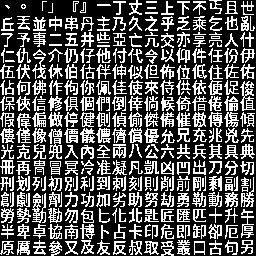
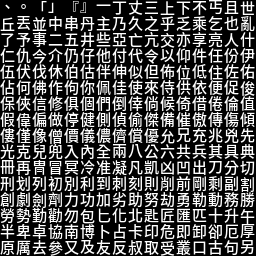
灰階 AA 字型:cjkBlit alpha 混色 + gray atlas(向後相容二值)
- build_cjk_font.py 加 --mode gray(預設,存抗鋸齒 alpha)/ binary
- patches/engine cjkBlit:用原始 alpha 值混黑底(二值 atlas 仍相容)
- assets/cjk_font.bin 重建為 Noto Medium 灰階;headless 自測通過
- docs/screenshots:02 更新為 AA、04_aa_compare 二值/AA 並列
- 註:xu4 預設 nearest-neighbor 放大部分削弱 AA,搭 --filter 更明顯
- PLAN/README/SETUP/patches README 更新

diff --git a/tools/build_cjk_font.py b/tools/build_cjk_font.py
@@ -48,7 +48,7 @@ def collect_codepoints():
     return sorted(cps, key=ord)
 
 
-def render_glyph(font, ch, W, H):
+def render_glyph(font, ch, W, H, mode="gray", threshold=96):
     img = Image.new("L", (W, H), 0)
     d = ImageDraw.Draw(img)
     # 量測並置中
@@ -57,8 +57,9 @@ def render_glyph(font, ch, W, H):
     x = (W - gw) // 2 - bbox[0]
     y = (H - gh) // 2 - bbox[1]
     d.text((x, y), ch, fill=255, font=font)
-    # 二值化(EGA/點陣風格,門檻 96)
-    return img.point(lambda p: 255 if p >= 96 else 0)
+    if mode == "binary":
+        return img.point(lambda p: 255 if p >= threshold else 0)
+    return img   # gray:保留抗鋸齒 alpha(引擎 cjkBlit 以該值混色)
 
 
 def main():
@@ -67,6 +68,8 @@ def main():
     ap.add_argument("--index", type=int, default=0,
                     help=".ttc face index(Noto Sans CJK TC = 3)")
     ap.add_argument("--size", type=int, default=16)
+    ap.add_argument("--mode", choices=["gray", "binary"], default="gray",
+                    help="gray=抗鋸齒 alpha(預設);binary=二值化")
     ap.add_argument("--out", required=True)
     ap.add_argument("--preview", default="")
     args = ap.parse_args()
@@ -79,7 +82,7 @@ def main():
     os.makedirs(os.path.dirname(args.out), exist_ok=True)
     glyphs = []
     for ch in chars:
-        g = render_glyph(font, ch, W, H)
+        g = render_glyph(font, ch, W, H, args.mode)
         glyphs.append((ord(ch), g.tobytes()))
 
     with open(args.out, "wb") as f:

diff --git a/PLAN.md b/PLAN.md
@@ -285,10 +285,12 @@ U6-cht 的核心經驗可直接套用:
 CJK 字型 + H1 hook PoC,headless Docker 驗證通過:
 
 - **資料側**:`tools/build_cjk_font.py`(掃四源 zh → 1978 唯一漢字 → **Noto Sans CJK TC Medium**(`--index 3`)烘 16×16 atlas `assets/cjk_font.bin`)+ `tools/build_lookup.py`(四源合併 en→zh 二進位 `assets/u4_cht.tab`,2614 條,依 en 排序)。
-  - **字型可讀性**(2026-06-04):16px 二值化下,Noto Sans CJK TC **Medium** 優於 AR PL UMing(Ming serif 細筆易斷)與 Noto Bold(密筆糊成一團);對比見 `docs/screenshots/03_font_compare.png`。
+  - **字型可讀性**(2026-06-04):
+    - 字型:Noto Sans CJK TC **Medium** 優於 AR PL UMing(Ming serif 細筆易斷)與 Noto Bold(密筆糊);對比 `docs/screenshots/03_font_compare.png`。
+    - **灰階 AA**:`build_cjk_font.py --mode gray`(預設)存抗鋸齒 alpha,`cjkBlit` 用該值混黑底(二值 atlas 仍相容)→ 斜筆/曲線鋸齒減少;對比 `docs/screenshots/04_aa_compare.png`。註:xu4 預設 nearest-neighbor 放大會部分削弱 AA,搭配 `--filter` 線性放大效果更明顯。
 - **引擎側**(`patches/engine/`,套用 `tools/apply_cht.sh`):
   - 新模組 `cht.cpp/h`:載入資產 + `chtLookup`(二分)+ `chtGlyph`。
-  - `screen.cpp`:`cjkBlit`(16×16 全形 blit 到 `xu4.screenImage`)+ `screenMessageCJK`(UTF-8、CJK-aware 換行)+ **H1 `screenMessageN` 進入查表命中改走 CJK**;`chtSelfTest`(env 守護)。
+  - `screen.cpp`:`cjkBlit`(16×16 全形,**灰階 alpha 混色** blit 到 `xu4.screenImage`)+ `screenMessageCJK`(UTF-8、CJK-aware 換行)+ **H1 `screenMessageN` 進入查表命中改走 CJK**;`chtSelfTest`(env 守護)。
 - **驗證**:`U4CHT_SELFTEST=1` 用真實 `chtLookup` 渲染已知 NPC 對白 → 截圖顯示「一位迷人的吟遊詩人。」「馬精西亞城為其驕傲所毀。」(`docs/screenshots/02_cjk_ingame.png`)。log:`loaded 2614 translations / 1978 glyphs`。
 - **限制**:文字區 16×12@8px → CJK 每行 8 字;含 `%s/%d` 硬編字串需 format-aware;vendor Boron 路徑待驗;長對白 CJK 換行/捲動待精修(P7)。
 

diff --git a/SETUP.md b/SETUP.md
@@ -123,8 +123,8 @@ python3 tools/talk_batches.py merge --in dumps/talk_bilingual.json
 ```bash
 # 產生 CJK 字型 atlas(掃四源 zh,1978 漢字)+ en→zh 二進位 lookup
 python3 tools/build_cjk_font.py --font /usr/share/fonts/opentype/noto/NotoSansCJK-Medium.ttc \
-  --index 3 --size 16 --out assets/cjk_font.bin --preview assets/cjk_preview.png
-# (--index 3 = Noto Sans CJK TC;16px 二值化下 Medium 比 Ming serif / Bold 更易讀)
+  --index 3 --size 16 --mode gray --out assets/cjk_font.bin --preview assets/cjk_preview.png
+# (--index 3 = Noto Sans CJK TC;--mode gray = 灰階抗鋸齒,預設;Medium 比 Ming/Bold 易讀)
 python3 tools/build_lookup.py --out assets/u4_cht.tab
 
 # 套引擎 patch 到 xu4 + 安裝資產 → 重建

diff --git a/README.md b/README.md
@@ -112,6 +112,9 @@ docker run --rm -v /tmp/u4shot:/out u4cht/xu4-test 22 3   # → /tmp/u4shot/scre
 ![font-compare](docs/screenshots/03_font_compare.png)
 *字型可讀性:AR PL UMing(左,Ming serif 細筆)→ Noto Sans CJK TC Medium(右,粗筆均勻)。*
 
+![aa-compare](docs/screenshots/04_aa_compare.png)
+*灰階 AA:二值(左)→ 灰階抗鋸齒(右),`cjkBlit` 以 alpha 混黑底,斜筆/曲線鋸齒減少。*
+
 ---
 
 <a name="技術架構"></a>

diff --git a/patches/engine/README.md b/patches/engine/README.md
@@ -20,7 +20,7 @@ docker build -f docker/Dockerfile.zh -t u4cht/xu4-allegro xu4
 ## Hook 點(對應 docs/P3-hooks.md)
 
 - **H1 `screenMessageN`**:進入時 `chtLookup(buffer, buflen)`;命中 → `screenMessageCJK(zh)` 渲染後 return(load-time 替換,不改原 bytecode)。
-- **H2 glyph**:`cjkBlit` 把 16×16 CJK alpha blit 到 `xu4.screenImage` 文字區(全形佔 2 欄,行距 2)。
+- **H2 glyph**:`cjkBlit` 把 16×16 CJK **灰階 alpha 混色**(白字混黑底,二值 atlas 亦相容)blit 到 `xu4.screenImage`(全形佔 2 欄,行距 2)。
 - **self-test**:`screenRender()` 開頭 `chtSelfTest()`,env `U4CHT_SELFTEST=1` 時用真實 `chtLookup` 渲染已知 en,headless 驗證全鏈路。
 
 ## 已知限制(PoC 階段)